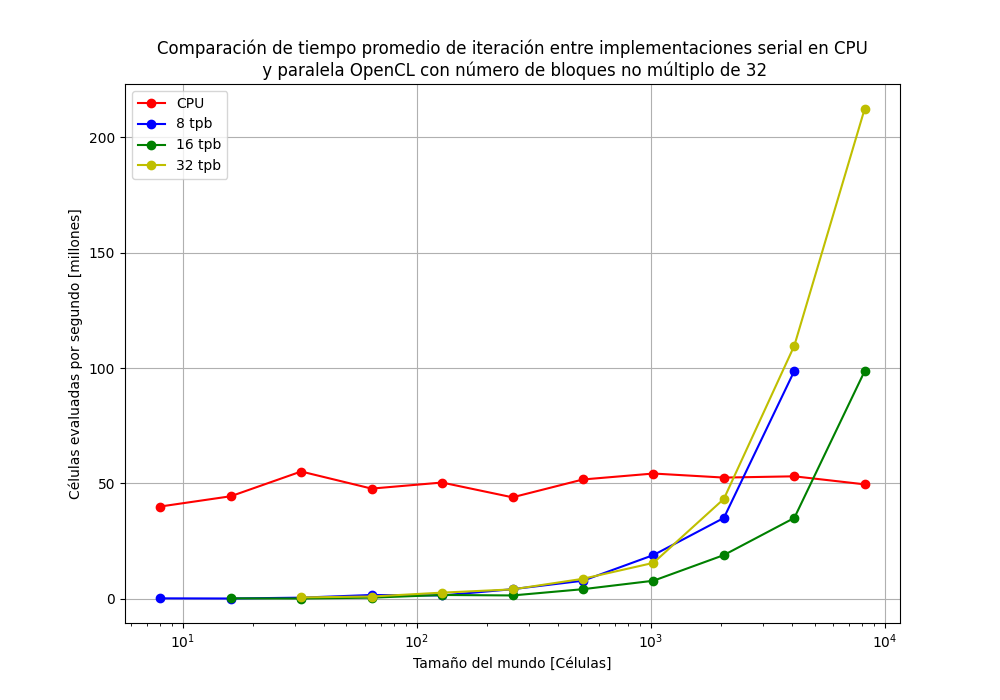
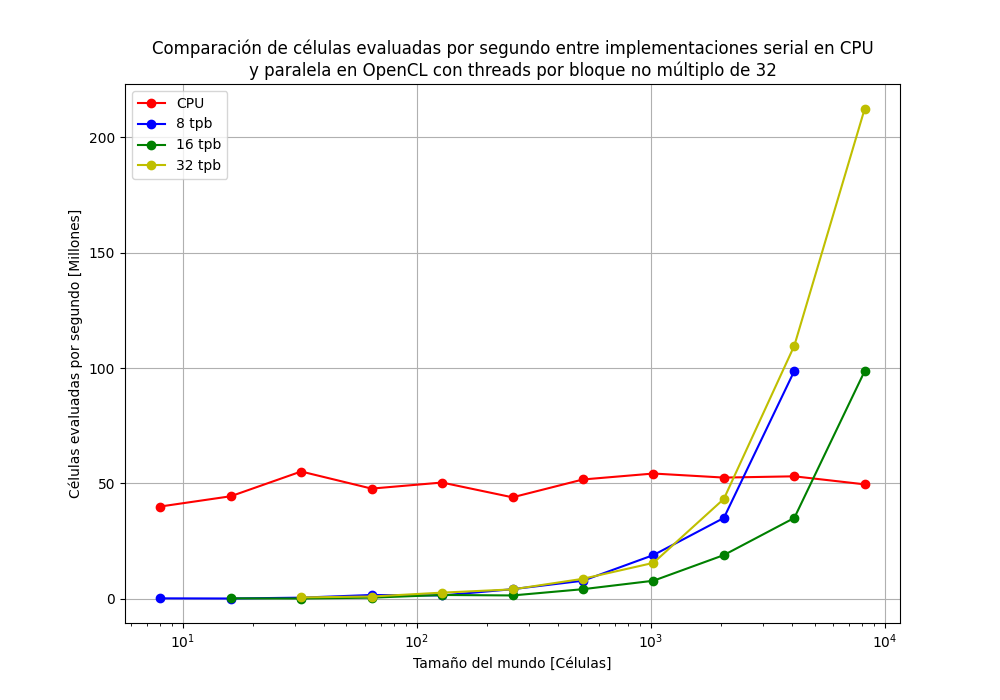
Charts refactored

Changed region(s): [[0.155, 0.06, 0.868, 0.12], [0.062, 0.3, 0.093, 0.72]]

diff --git a/GraphsGenerator/speedup_CPU_OpenCL_variations.py b/GraphsGenerator/speedup_CPU_OpenCL_variations.py
@@ -1,0 +1,86 @@
+"""Grafico con los valores obtenidos en las implementacion serial y paralelas"""
+
+import matplotlib.pyplot as plt
+import numpy as np
+import csv
+
+path = "Data/"
+
+if __name__ == "__main__":
+    size = []
+    size2 = []
+    time1 = []
+    time2 = []
+    time3 = []
+    time4 = []
+    time5 = []
+
+    with open(path + 'serial_CPU.csv', mode='r') as csv_file:
+        csv_reader = csv.DictReader(csv_file)
+        line_count = 0
+        for row in csv_reader:
+            size += [ int(row['width']) * int(row['height']) ]
+            tmp_time = float(row['time']) * 0.001
+            time1 += [tmp_time / float(row['iter']) ]
+            print(size[-1], time1[-1])
+    
+    with open(path + 'non_32_CPU.csv', mode='r') as csv_file:
+        csv_reader = csv.DictReader(csv_file)
+        line_count = 0
+        for row in csv_reader:
+            size2 += [ int(row['width']) * int(row['height']) ]
+            tmp_time = float(row['time']) * 0.001
+            time2 += [tmp_time / float(row['iter']) ]
+            print(size2[-1], time2[-1])
+
+    with open(path + 'opencl_256tpb.csv', mode='r') as csv_file:
+        csv_reader = csv.DictReader(csv_file)
+        line_count = 0
+        for row in csv_reader:
+            tmp_time = float(row['time']) * 0.001
+            time3 += [tmp_time / float(row['iter']) ]
+            print(time3[-1])
+
+    with open(path + 'opencl_256tpb_if.csv', mode='r') as csv_file:
+        csv_reader = csv.DictReader(csv_file)
+        line_count = 0
+        for row in csv_reader:
+            tmp_time = float(row['time']) * 0.001
+            time4 += [tmp_time / float(row['iter']) ]
+            print(time4[-1])
+    
+    with open(path + 'opencl_243tpb.csv', mode='r') as csv_file:
+        csv_reader = csv.DictReader(csv_file)
+        line_count = 0
+        for row in csv_reader:
+            tmp_time = float(row['time']) * 0.001
+            time5 += [tmp_time / float(row['iter']) ]
+            print(time5[-1])
+
+    n_size = np.array(size)[:-1]
+    n_size2 = np.array(size2)
+    n_time1 = np.array(time1)[:-1]
+    n_time2 = np.array(time2) 
+    n_time3 = np.array(time3) 
+    n_time4 = np.array(time4) 
+    n_time5 = np.array(time5) 
+
+    n_eval1 = (n_time1 / n_time3)
+    n_eval2 = (n_time1 / n_time4)
+    n_eval3 = (n_time2 / n_time5)
+
+    fig, ax = plt.subplots(figsize=(10,7))
+    
+    ax.set_xscale('log')
+
+    line1 = ax.plot(n_size, n_eval1, 'r-o', label='OpenCL')
+    line2 = ax.plot(n_size, n_eval2, 'b-o', label='OpenCL con ifs')
+    line3 = ax.plot(n_size2, n_eval3, 'g-o', label='OpenCL no múltiplo de 32')
+
+    ax.set(xlabel='Tamaño del mundo [Células]', ylabel='Speedup [n-veces]',
+       title='Speedup para implementación en OpenCL y sus variaciones sobre CPU')
+    ax.grid()
+
+    ax.legend()
+    fig.savefig("images/CPU_OpenCL_variations_speedup.png")
+    plt.show()

diff --git a/GraphsGenerator/speedup_CPU_CUDA_variations.py b/GraphsGenerator/speedup_CPU_CUDA_variations.py
@@ -1,0 +1,86 @@
+"""Grafico con los valores obtenidos en las implementacion serial y paralelas"""
+
+import matplotlib.pyplot as plt
+import numpy as np
+import csv
+
+path = "Data/"
+
+if __name__ == "__main__":
+    size = []
+    size2 = []
+    time1 = []
+    time2 = []
+    time3 = []
+    time4 = []
+    time5 = []
+
+    with open(path + 'serial_CPU.csv', mode='r') as csv_file:
+        csv_reader = csv.DictReader(csv_file)
+        line_count = 0
+        for row in csv_reader:
+            size += [ int(row['width']) * int(row['height']) ]
+            tmp_time = float(row['time']) * 0.001
+            time1 += [tmp_time / float(row['iter']) ]
+            print(size[-1], time1[-1])
+    
+    with open(path + 'non_32_CPU.csv', mode='r') as csv_file:
+        csv_reader = csv.DictReader(csv_file)
+        line_count = 0
+        for row in csv_reader:
+            size2 += [ int(row['width']) * int(row['height']) ]
+            tmp_time = float(row['time']) * 0.001
+            time2 += [tmp_time / float(row['iter']) ]
+            print(size2[-1], time2[-1])
+
+    with open(path + 'cuda_128tpb.csv', mode='r') as csv_file:
+        csv_reader = csv.DictReader(csv_file)
+        line_count = 0
+        for row in csv_reader:
+            tmp_time = float(row['time']) * 0.001
+            time3 += [tmp_time / float(row['iter']) ]
+            print(time3[-1])
+
+    with open(path + 'cuda_128tpb_if.csv', mode='r') as csv_file:
+        csv_reader = csv.DictReader(csv_file)
+        line_count = 0
+        for row in csv_reader:
+            tmp_time = float(row['time']) * 0.001
+            time4 += [tmp_time / float(row['iter']) ]
+            print(time4[-1])
+    
+    with open(path + 'cuda_81tpb.csv', mode='r') as csv_file:
+        csv_reader = csv.DictReader(csv_file)
+        line_count = 0
+        for row in csv_reader:
+            tmp_time = float(row['time']) * 0.001
+            time5 += [tmp_time / float(row['iter']) ]
+            print(time5[-1])
+
+    n_size = np.array(size)[:-1]
+    n_size2 = np.array(size2)
+    n_time1 = np.array(time1)[:-1]
+    n_time2 = np.array(time2) 
+    n_time3 = np.array(time3) 
+    n_time4 = np.array(time4) 
+    n_time5 = np.array(time5) 
+
+    n_eval1 = (n_time1 / n_time3)
+    n_eval2 = (n_time1 / n_time4)
+    n_eval3 = (n_time2 / n_time5)
+
+    fig, ax = plt.subplots(figsize=(10,7))
+    
+    ax.set_xscale('log')
+
+    line1 = ax.plot(n_size, n_eval1, 'r-o', label='CUDA')
+    line2 = ax.plot(n_size, n_eval2, 'b-o', label='CUDA con ifs')
+    line3 = ax.plot(n_size2, n_eval3, 'g-o', label='CUDA no múltiplo de 32')
+
+    ax.set(xlabel='Tamaño del mundo [Células]', ylabel='Speedup [n-veces]',
+       title='Speedup para implementación en CUDA y sus variaciones sobre CPU')
+    ax.grid()
+
+    ax.legend()
+    fig.savefig("images/CPU_CUDA_variations_speedup.png")
+    plt.show()

diff --git a/GraphsGenerator/comparison_CPU_CUDA_min.py b/GraphsGenerator/comparison_CPU_CUDA_min.py
@@ -75,8 +75,8 @@ if __name__ == "__main__":
     line3 = ax.plot(n_size3, n_eval3, 'g-o', label='16 tpb')
     line3 = ax.plot(n_size4, n_eval4, 'y-o', label='32 tpb')
 
-    ax.set(xlabel='Tamaño del mundo [Células]', ylabel='Células evaluadas por segundo [millones]',
-       title='Comparación de tiempo promedio de iteración entre implementaciones serial en CPU\n y paralela CUDA con número de bloques no múltiplo de 32')
+    ax.set(xlabel='Tamaño del mundo [Células]', ylabel='Células evaluadas por segundo [Millones]',
+       title='Comparación de células evaluadas por segundo entre implementaciones serial en CPU\ny paralela en CUDA con threads por bloque no múltiplo de 32')
     ax.grid()
 
     ax.legend()
@@ -84,14 +84,14 @@ if __name__ == "__main__":
     plt.show()
 
     # Zoom
-    n_size1 = n_size1[:len(size1) // 2]
-    n_size2 = n_size2[:len(size2) // 2]
-    n_size3 = n_size3[:len(size3) // 2]
-    n_size4 = n_size4[:len(size4) // 2]
-    n_eval1 = n_eval1[:len(size1) // 2]
-    n_eval2 = n_eval2[:len(size2) // 2]
-    n_eval3 = n_eval2[:len(size3) // 2]
-    n_eval4 = n_eval4[:len(size4) // 2]
+    n_size1 = n_size1[:len(size1) // 3 + 1]
+    n_size2 = n_size2[:len(size2) // 3]
+    n_size3 = n_size3[:len(size3) // 3]
+    n_size4 = n_size4[:len(size4) // 3]
+    n_eval1 = n_eval1[:len(size1) // 3 + 1]
+    n_eval2 = n_eval2[:len(size2) // 3]
+    n_eval3 = n_eval2[:len(size3) // 3]
+    n_eval4 = n_eval4[:len(size4) // 3]
 
     fig, ax = plt.subplots(figsize=(10,7))
     
@@ -102,8 +102,8 @@ if __name__ == "__main__":
     line3 = ax.plot(n_size3, n_eval3, 'g-o', label='16 tpb')
     line3 = ax.plot(n_size4, n_eval4, 'y-o', label='32 tpb')
 
-    ax.set(xlabel='Tamaño del mundo [Células]', ylabel='Células evaluadas por segundo [millones]',
-       title='Comparación de tiempo promedio de iteración entre implementaciones serial en CPU\n y paralela CUDA con número de bloques no múltiplo de 32')
+    ax.set(xlabel='Tamaño del mundo [Células]', ylabel='Células evaluadas por segundo [Millones]',
+       title='Comparación de células evaluadas por segundo entre implementaciones serial en CPU\ny paralela en CUDA con threads por bloque no múltiplo de 32')
     ax.grid()
 
     ax.legend()

diff --git a/GraphsGenerator/comparison_CPU_OpenCL_min.py b/GraphsGenerator/comparison_CPU_OpenCL_min.py
@@ -75,8 +75,8 @@ if __name__ == "__main__":
     line3 = ax.plot(n_size3, n_eval3, 'g-o', label='16 tpb')
     line3 = ax.plot(n_size4, n_eval4, 'y-o', label='32 tpb')
 
-    ax.set(xlabel='Tamaño del mundo [Células]', ylabel='Células evaluadas por segundo [millones]',
-       title='Comparación de tiempo promedio de iteración entre implementaciones serial en CPU\n y paralela OpenCL con número de bloques no múltiplo de 32')
+    ax.set(xlabel='Tamaño del mundo [Células]', ylabel='Células evaluadas por segundo [Millones]',
+       title='Comparación de células evaluadas por segundo entre implementaciones serial en CPU\ny paralela en OpenCL con threads por bloque no múltiplo de 32')
     ax.grid()
 
     ax.legend()
@@ -102,8 +102,8 @@ if __name__ == "__main__":
     line3 = ax.plot(n_size3, n_eval3, 'g-o', label='16 tpb')
     line3 = ax.plot(n_size4, n_eval4, 'y-o', label='32 tpb')
 
-    ax.set(xlabel='Tamaño del mundo [Células]', ylabel='Células evaluadas por segundo [millones]',
-       title='Comparación de tiempo promedio de iteración entre implementaciones serial en CPU\n y paralela OpenCL con número de bloques no múltiplo de 32')
+    ax.set(xlabel='Tamaño del mundo [Células]', ylabel='Células evaluadas por segundo [Millones]',
+       title='Comparación de células evaluadas por segundo entre implementaciones serial en CPU\ny paralela en OpenCL con threads por bloque no múltiplo de 32')
     ax.grid()
 
     ax.legend()

diff --git a/GraphsGenerator/comparison_OpenCL_if.py b/GraphsGenerator/comparison_OpenCL_if.py
@@ -42,10 +42,10 @@ if __name__ == "__main__":
     ax.set_xscale('log')
 
     line = ax.plot(n_size, n_eval, 'b-o', label='Implementación sin if statements')
-    line_if = ax.plot(n_size, n_eval_if, 'r-o', label=' Implementación usando if statements')
+    line_if = ax.plot(n_size, n_eval_if, 'r-o', label=' Implementación con if statements')
 
     ax.set(xlabel='Tamaño del mundo [Células]', ylabel='Células evaluadas por segundo [Millones]',
-       title='Comparación de tiempo promedio de iteración entre implementaciones \n paralelas en OpenCL con 256 tpb')
+       title='Comparación de células evaluadas por segundo entre implementaciones\nparalelas en OpenCL y su variación con if statements')
     ax.grid()
 
     ax.legend()

diff --git a/GraphsGenerator/comparison_CUDA_if.py b/GraphsGenerator/comparison_CUDA_if.py
@@ -42,10 +42,10 @@ if __name__ == "__main__":
     ax.set_xscale('log')
 
     line = ax.plot(n_size, n_eval, 'b-o', label='Implementación sin if statements')
-    line_if = ax.plot(n_size, n_eval_if, 'r-o', label=' Implementación usando if statements')
+    line_if = ax.plot(n_size, n_eval_if, 'r-o', label=' Implementación con if statements')
 
     ax.set(xlabel='Tamaño del mundo [Células]', ylabel='Células evaluadas por segundo [Millones]',
-       title='Comparación de tiempo promedio de iteración entre implementaciones \n paralelas en CUDA con 128 tpb')
+       title='Comparación de células evaluadas por segundo entre implementaciones\nparalelas en CUDA y su variación con if statements')
     ax.grid()
 
     ax.legend()

diff --git a/GraphsGenerator/comparison_CPU_CUDA_OpenCL.py b/GraphsGenerator/comparison_CPU_CUDA_OpenCL.py
@@ -57,8 +57,8 @@ if __name__ == "__main__":
     line2 = ax.plot(n_size2, n_eval2, 'b-o', label='CUDA')
     line3 = ax.plot(n_size2, n_eval3, 'g-o', label='OpenCL')
 
-    ax.set(xlabel='Tamaño del mundo [Células]', ylabel='Células evaluadas por segundo [millones]',
-       title='Comparación de tiempo promedio de iteración entre implementaciones serial en CPU\n y paralelas en CUDA y OpenCL')
+    ax.set(xlabel='Tamaño del mundo [Células]', ylabel='Células evaluadas por segundo [Millones]',
+       title='Comparación de células evaluadas por segundo entre implementaciones serial en CPU\n y paralelas en CUDA y OpenCL')
     ax.grid()
 
     ax.legend()

diff --git a/GraphsGenerator/OpenCL_non32tpb.py b/GraphsGenerator/OpenCL_non32tpb.py
@@ -169,7 +169,7 @@ if __name__ == "__main__":
     line729 = ax.plot(n_size3, n_eval729, color='#e6194B', marker='o', label='729 tpb')
 
     ax.set(xlabel='Tamaño del mundo [Células]', ylabel='Células evaluadas por segundo [Millones]',
-       title='Evaluación del programa en GPU con diferentes threads por bloque (tpb) con OpenCL')
+       title='Comparación de células evaluadas por segundo entre implementaciones\ncon threads por bloque (tpb) no múltiplo de 32 para OpenCL')
     ax.grid()
 
     ax.legend()

diff --git a/GraphsGenerator/CUDA_non32tpb.py b/GraphsGenerator/CUDA_non32tpb.py
@@ -169,7 +169,7 @@ if __name__ == "__main__":
     line729 = ax.plot(n_size3, n_eval729, color='#e6194B', marker='o', label='729 tpb')
 
     ax.set(xlabel='Tamaño del mundo [Células]', ylabel='Células evaluadas por segundo [Millones]',
-       title='Evaluación del programa en GPU con diferentes threads por bloque (tpb) con CUDA')
+       title='Comparación de células evaluadas por segundo entre implementaciones\ncon threads por bloque (tpb) no múltiplo de 32 para CUDA')
     ax.grid()
 
     ax.legend()

diff --git a/GraphsGenerator/OpenCL_tpb.py b/GraphsGenerator/OpenCL_tpb.py
@@ -96,7 +96,7 @@ if __name__ == "__main__":
     line1024 = ax.plot(n_size, n_eval1024, 'c-o', label='1024 tpb')
 
     ax.set(xlabel='Tamaño del mundo [Células]', ylabel='Células evaluadas por segundo [Millones]',
-       title='Evaluación del programa en GPU con diferentes threads por bloque (tpb) con OpenCL')
+       title='Comparación de células evaluadas por segundo entre implementaciones\ncon diferentes threads por bloque (tpb) para OpenCL')
     ax.grid()
 
     ax.legend()

diff --git a/GraphsGenerator/CUDA_tpb.py b/GraphsGenerator/CUDA_tpb.py
@@ -96,7 +96,7 @@ if __name__ == "__main__":
     line1024 = ax.plot(n_size, n_eval1024, 'c-o', label='1024 tpb')
 
     ax.set(xlabel='Tamaño del mundo [Células]', ylabel='Células evaluadas por segundo [Millones]',
-       title='Evaluación del programa en GPU con diferentes threads por bloque (tpb) con CUDA')
+       title='Comparación de células evaluadas por segundo entre implementaciones\ncon diferentes threads por bloque (tpb) para CUDA')
     ax.grid()
 
     ax.legend()

diff --git a/GraphsGenerator/serial_CPU.py b/GraphsGenerator/serial_CPU.py
@@ -33,7 +33,7 @@ if __name__ == "__main__":
     ax.plot(n_size, n_eval, 'r-o')
 
     ax.set(xlabel='Tamaño del mundo [Células]', ylabel='Células evaluadas por segundo [Millones]',
-       title='Tiempo promedio de iteración con implementación secuencial en CPU ')
+       title='Células evaluadas por segundo para distintos tamaños de mundo\ncon implementación secuencial en CPU ')
     ax.grid()
 
     fig.savefig("images/serial_CPU.png")
